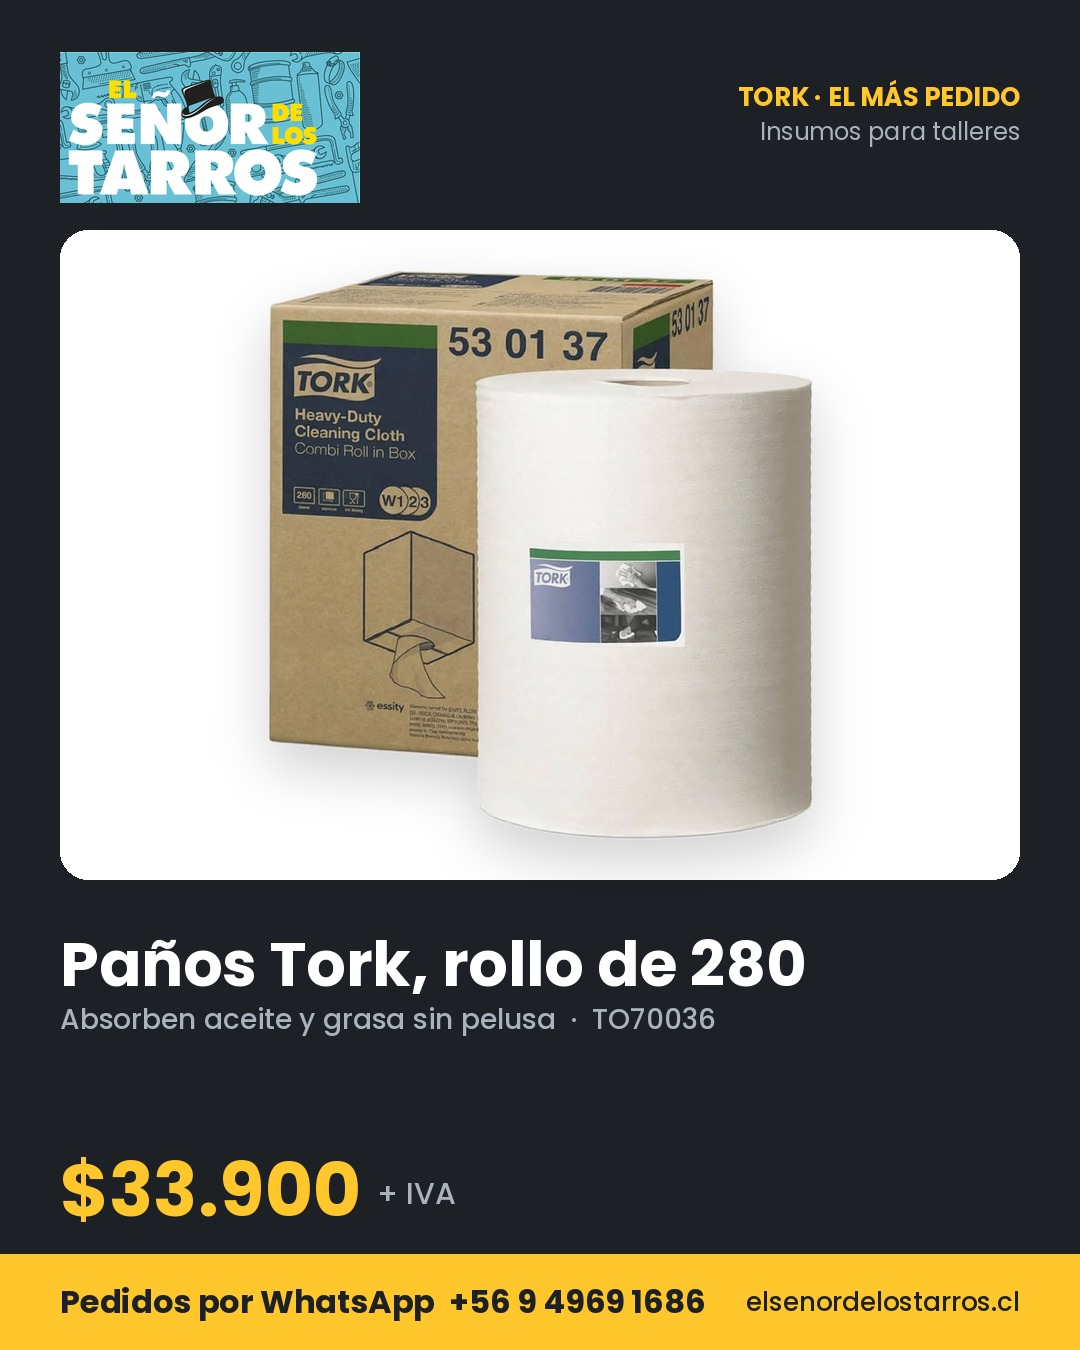
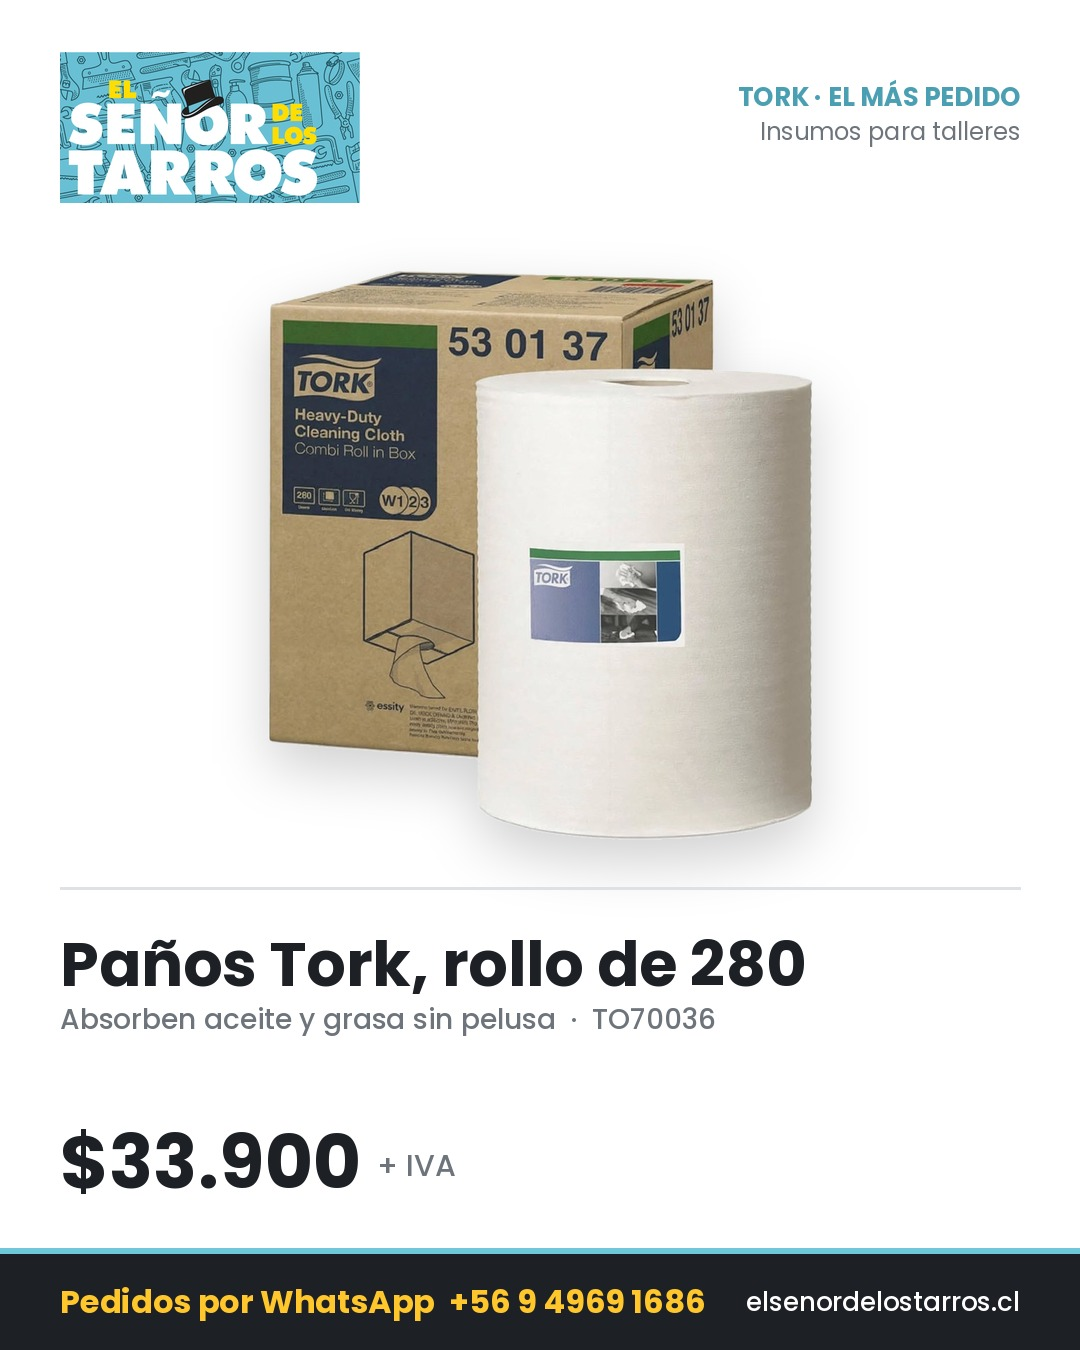
Instagram: plantilla todo blanco (estilo acordado); 32-34 regenerados
Claude-Session: https://claude.ai/code/session_01UbC1VrCkLg6oZvPvcmR3q3

diff --git a/trabajo/scripts/insta.py b/trabajo/scripts/insta.py
@@ -110,49 +110,49 @@ def texto_ajustado(d, txt, fuente, ancho_max, tam, tam_min=34):
 
 
 def publicacion(nombre_archivo, productos, etiqueta, titulo, detalle, precio, sufijo):
-    img = Image.new("RGB", (W, H), CARBON)
+    """Estilo acordado (oct 2026): todo blanco, como el post '¿Cansado de perder tiempo en el taller?'."""
+    TXT, TXT2 = CARBON, (110, 116, 124)
+    img = Image.new("RGB", (W, H), BLANCO)
     d = ImageDraw.Draw(img)
 
-    # cabecera: logo
+    # cabecera: logo + etiqueta turquesa
     logo = Image.open(LOGO).convert("RGB")
     lw = 300
     logo = logo.resize((lw, int(logo.height * lw / logo.width)), Image.LANCZOS)
     img.paste(logo, (60, 52))
-    d.text((W - 60, 78), etiqueta.upper(), font=f(FB, 26), fill=AMAR, anchor="ra")
-    d.text((W - 60, 114), "Insumos para talleres", font=f(FR, 24), fill=GRIS, anchor="ra")
+    d.text((W - 60, 78), etiqueta.upper(), font=f(FB, 26), fill=TURQ_HONDO, anchor="ra")
+    d.text((W - 60, 114), "Insumos para talleres", font=f(FR, 24), fill=TXT2, anchor="ra")
 
-    # panel turquesa con el producto
+    # producto directo sobre el blanco
     py0, py1 = 230, 880
-    panel = Image.new("RGB", (W - 120, py1 - py0), (255, 255, 255)) if FONDO_BLANCO else patron((W - 120, py1 - py0))
-    m = Image.new("L", panel.size, 0)
-    ImageDraw.Draw(m).rounded_rectangle([0, 0, panel.width - 1, panel.height - 1], 28, fill=255)
-    img.paste(panel, (60, py0), m)
     for prod, caja in productos:
         x0, y0, x1, y1 = caja
         colocar(img, prod, (60 + x0, py0 + y0, 60 + x1, py0 + y1))
+    d.line([(60, py1 + 8), (W - 60, py1 + 8)], fill=(222, 226, 230), width=3)
 
     # texto
     ft, lineas = texto_ajustado(d, titulo, FB, W - 120, 62)
     y = 920
     for ln in lineas:
-        d.text((60, y), ln, font=ft, fill=BLANCO)
+        d.text((60, y), ln, font=ft, fill=TXT)
         y += int(ft.size * 1.18)
-    d.text((60, y + 6), detalle, font=f(FM, 28), fill=GRIS)
+    d.text((60, y + 6), detalle, font=f(FM, 28), fill=TXT2)
 
     # precio
-    yp = 1138
+    yp = 1110
     if precio:
         fp = f(FB, 74)
-        d.text((60, yp), precio, font=fp, fill=AMAR)
+        d.text((60, yp), precio, font=fp, fill=TXT)
         wpr = d.textlength(precio, font=fp)
-        d.text((60 + wpr + 16, yp + 34), sufijo, font=f(FM, 30), fill=GRIS)
+        d.text((60 + wpr + 16, yp + 34), sufijo, font=f(FM, 30), fill=TXT2)
     else:
-        d.text((60, yp + 10), sufijo, font=f(FB, 46), fill=AMAR)
+        d.text((60, yp + 10), sufijo, font=f(FB, 46), fill=TURQ_HONDO)
 
-    # pie
-    d.rectangle([0, H - 96, W, H], fill=AMAR)
-    d.text((60, H - 48), "Pedidos por WhatsApp  +56 9 4969 1686", font=f(FB, 32), fill=CARBON, anchor="lm")
-    d.text((W - 60, H - 48), "elsenordelostarros.cl", font=f(FM, 26), fill=CARBON, anchor="rm")
+    # pie: línea turquesa + franja carbón
+    d.rectangle([0, H - 102, W, H - 96], fill=TURQ)
+    d.rectangle([0, H - 96, W, H], fill=CARBON)
+    d.text((60, H - 48), "Pedidos por WhatsApp  +56 9 4969 1686", font=f(FB, 32), fill=AMAR, anchor="lm")
+    d.text((W - 60, H - 48), "elsenordelostarros.cl", font=f(FM, 26), fill=BLANCO, anchor="rm")
 
     os.makedirs(OUT, exist_ok=True)
     img.save(os.path.join(OUT, nombre_archivo), quality=92, optimize=True)

diff --git a/trabajo/scripts/insta32.py b/trabajo/scripts/insta32.py
@@ -14,7 +14,7 @@ publicacion(n,[(recortar(F+"ms5-inflador-manual-0-a-120-psi-con-pantalla-digital
 p=os.path.join(insta.OUT,n); im=Image.open(p).convert("RGB"); d=ImageDraw.Draw(im)
 cx,cy,r=W-150,300,95
 d.ellipse([cx-r,cy-r,cx+r,cy+r],fill=(224,71,58)); d.text((cx,cy),"-20%",font=f(FB,58),fill=(255,255,255),anchor="mm")
-fa=f(FM,34); t="Antes $49.489"; x=W-60; y=1170
+fa=f(FM,34); t="Antes $49.489"; x=W-60; y=1142
 w=d.textlength(t,font=fa); d.text((x,y),t,font=fa,fill=GRIS,anchor="ra")
 d.line([(x-w,y+21),(x,y+21)],fill=GRIS,width=3)
 im.save(p,quality=92)
